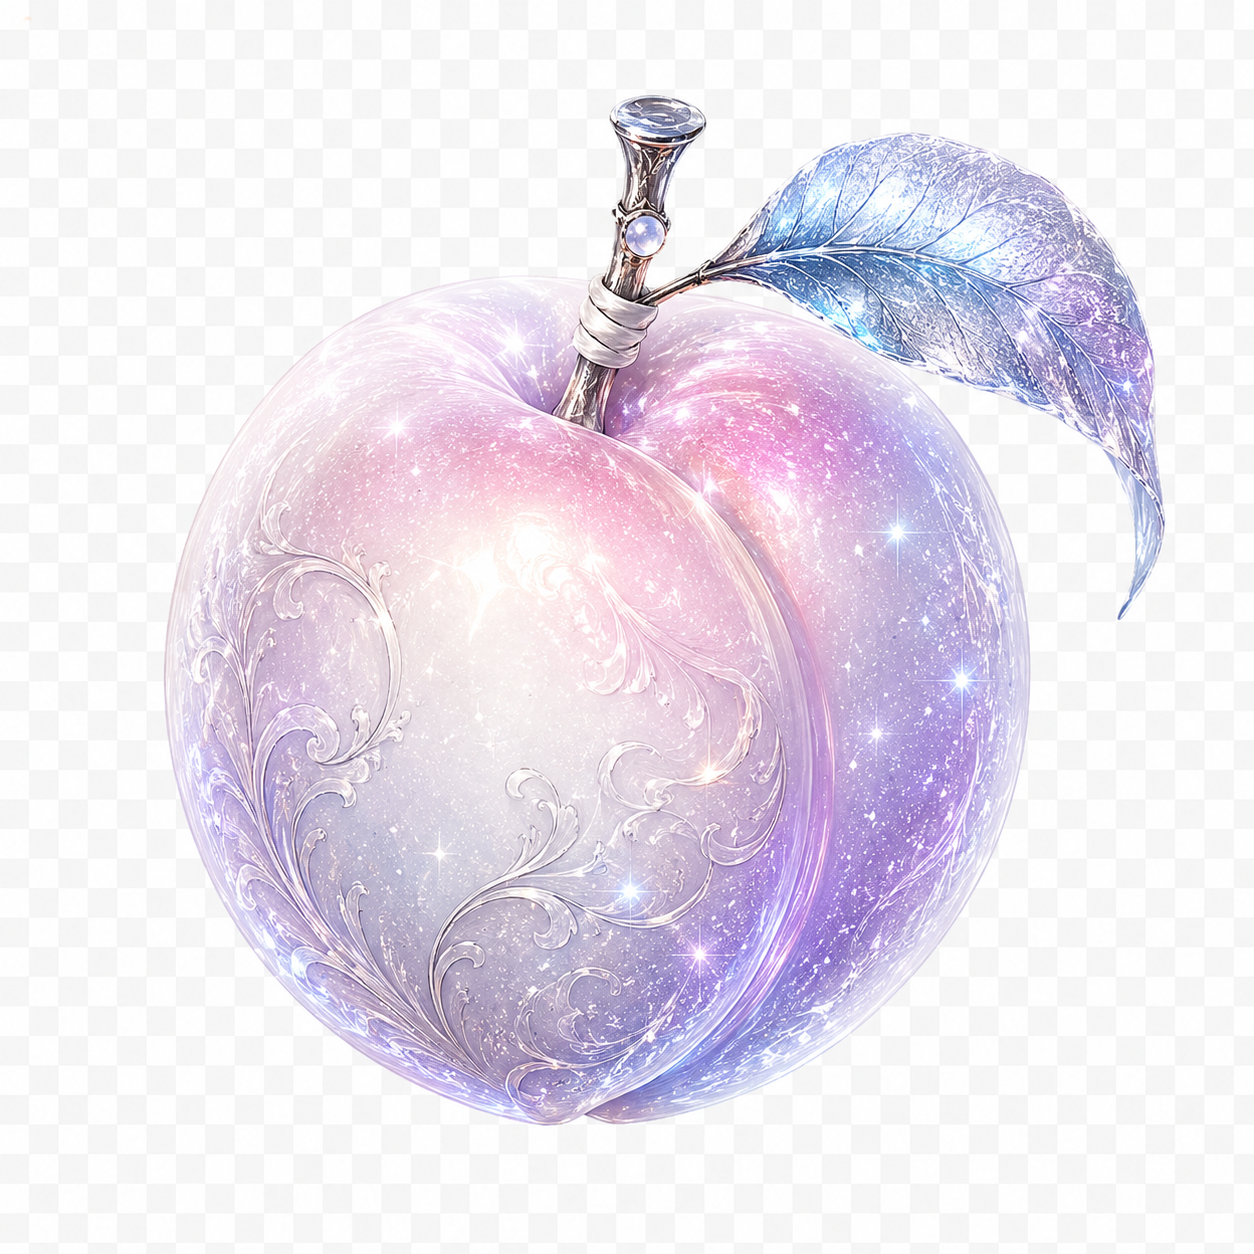
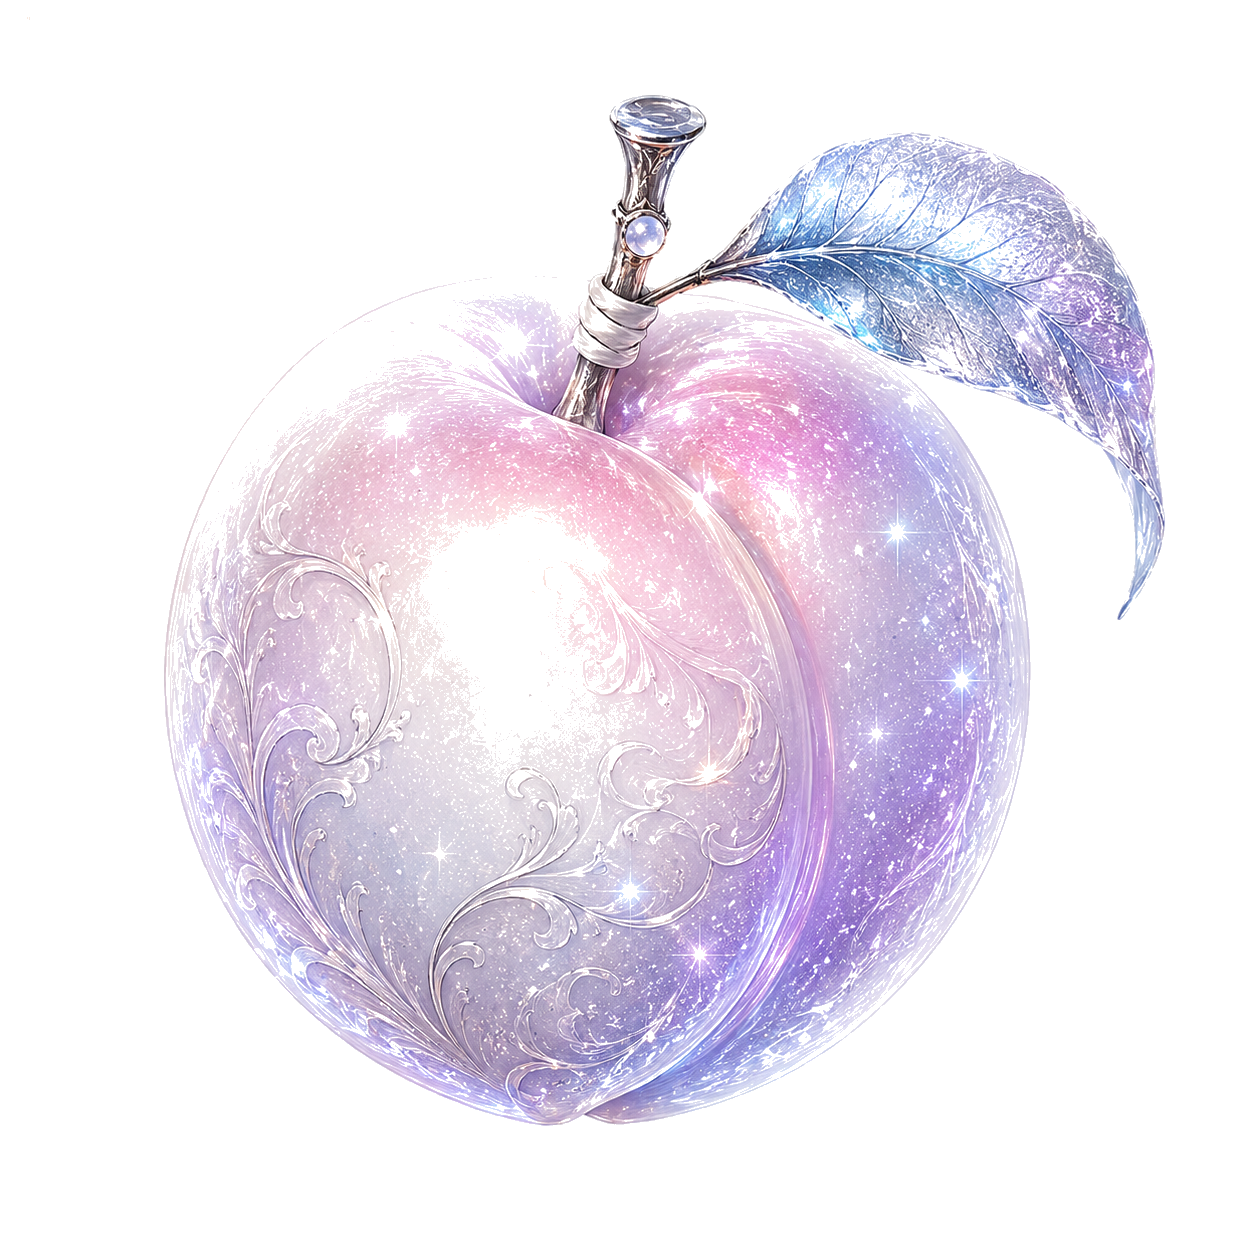
Update moon peach texture and fix GameEngine logic
Replit-Commit-Author: Agent

Changed region(s): [[0.2488, 0.2488, 0.4043, 0.3421], [0.5909, 0.2488, 0.6842, 0.2799], [0.4354, 0.4976, 0.4976, 0.5287]]

diff --git a/artifacts/fruit-blaster/src/game/engine/GameEngine.ts b/artifacts/fruit-blaster/src/game/engine/GameEngine.ts
@@ -81,10 +81,10 @@ export class GameEngine {
       this.spawnRate = 50;
     } else if (mode === 'moon') {
       // Moon Shrine — Survival Mode: starts calm, ramps up every 30s, maxes at 5min.
-      this.bombChance = 0.06;
+      this.bombChance = 0.14;
       this.spawnRate = 45;
       this.speedMultiplier = 1;
-      this.baseBombChance = 0.06;
+      this.baseBombChance = 0.14;
       this.baseSpawnRate = 45;
       this.baseSpeedMultiplier = 1;
     } else {
@@ -99,7 +99,7 @@ export class GameEngine {
     const tier = Math.min(10, Math.floor(this.survivalSeconds / 30)); // 0..10, maxed at 300s
     this.speedMultiplier = this.baseSpeedMultiplier + tier * 0.12;
     this.spawnRate = Math.max(14, this.baseSpawnRate - tier * 3);
-    this.bombChance = Math.min(0.32, this.baseBombChance + tier * 0.02);
+    this.bombChance = Math.min(0.4, this.baseBombChance + tier * 0.02);
   }
   
   resize(w: number, h: number) {
@@ -494,7 +494,7 @@ export class GameEngine {
       const swordImg = getMoonImage('moon-katana.png');
       if (swordImg) {
         const angle = Math.atan2(tip.y - prev.y, tip.x - prev.x) + Math.PI / 4;
-        const h = (200 / 1080) * this.height * 1.2; // scale with canvas, ~180-220px reference
+        const h = (200 / 1080) * this.height * 1.9; // scale with canvas, enlarged Moonlight Katana
         const w = h * (swordImg.naturalWidth / swordImg.naturalHeight);
         ctx.save();
         ctx.translate(tip.x, tip.y);